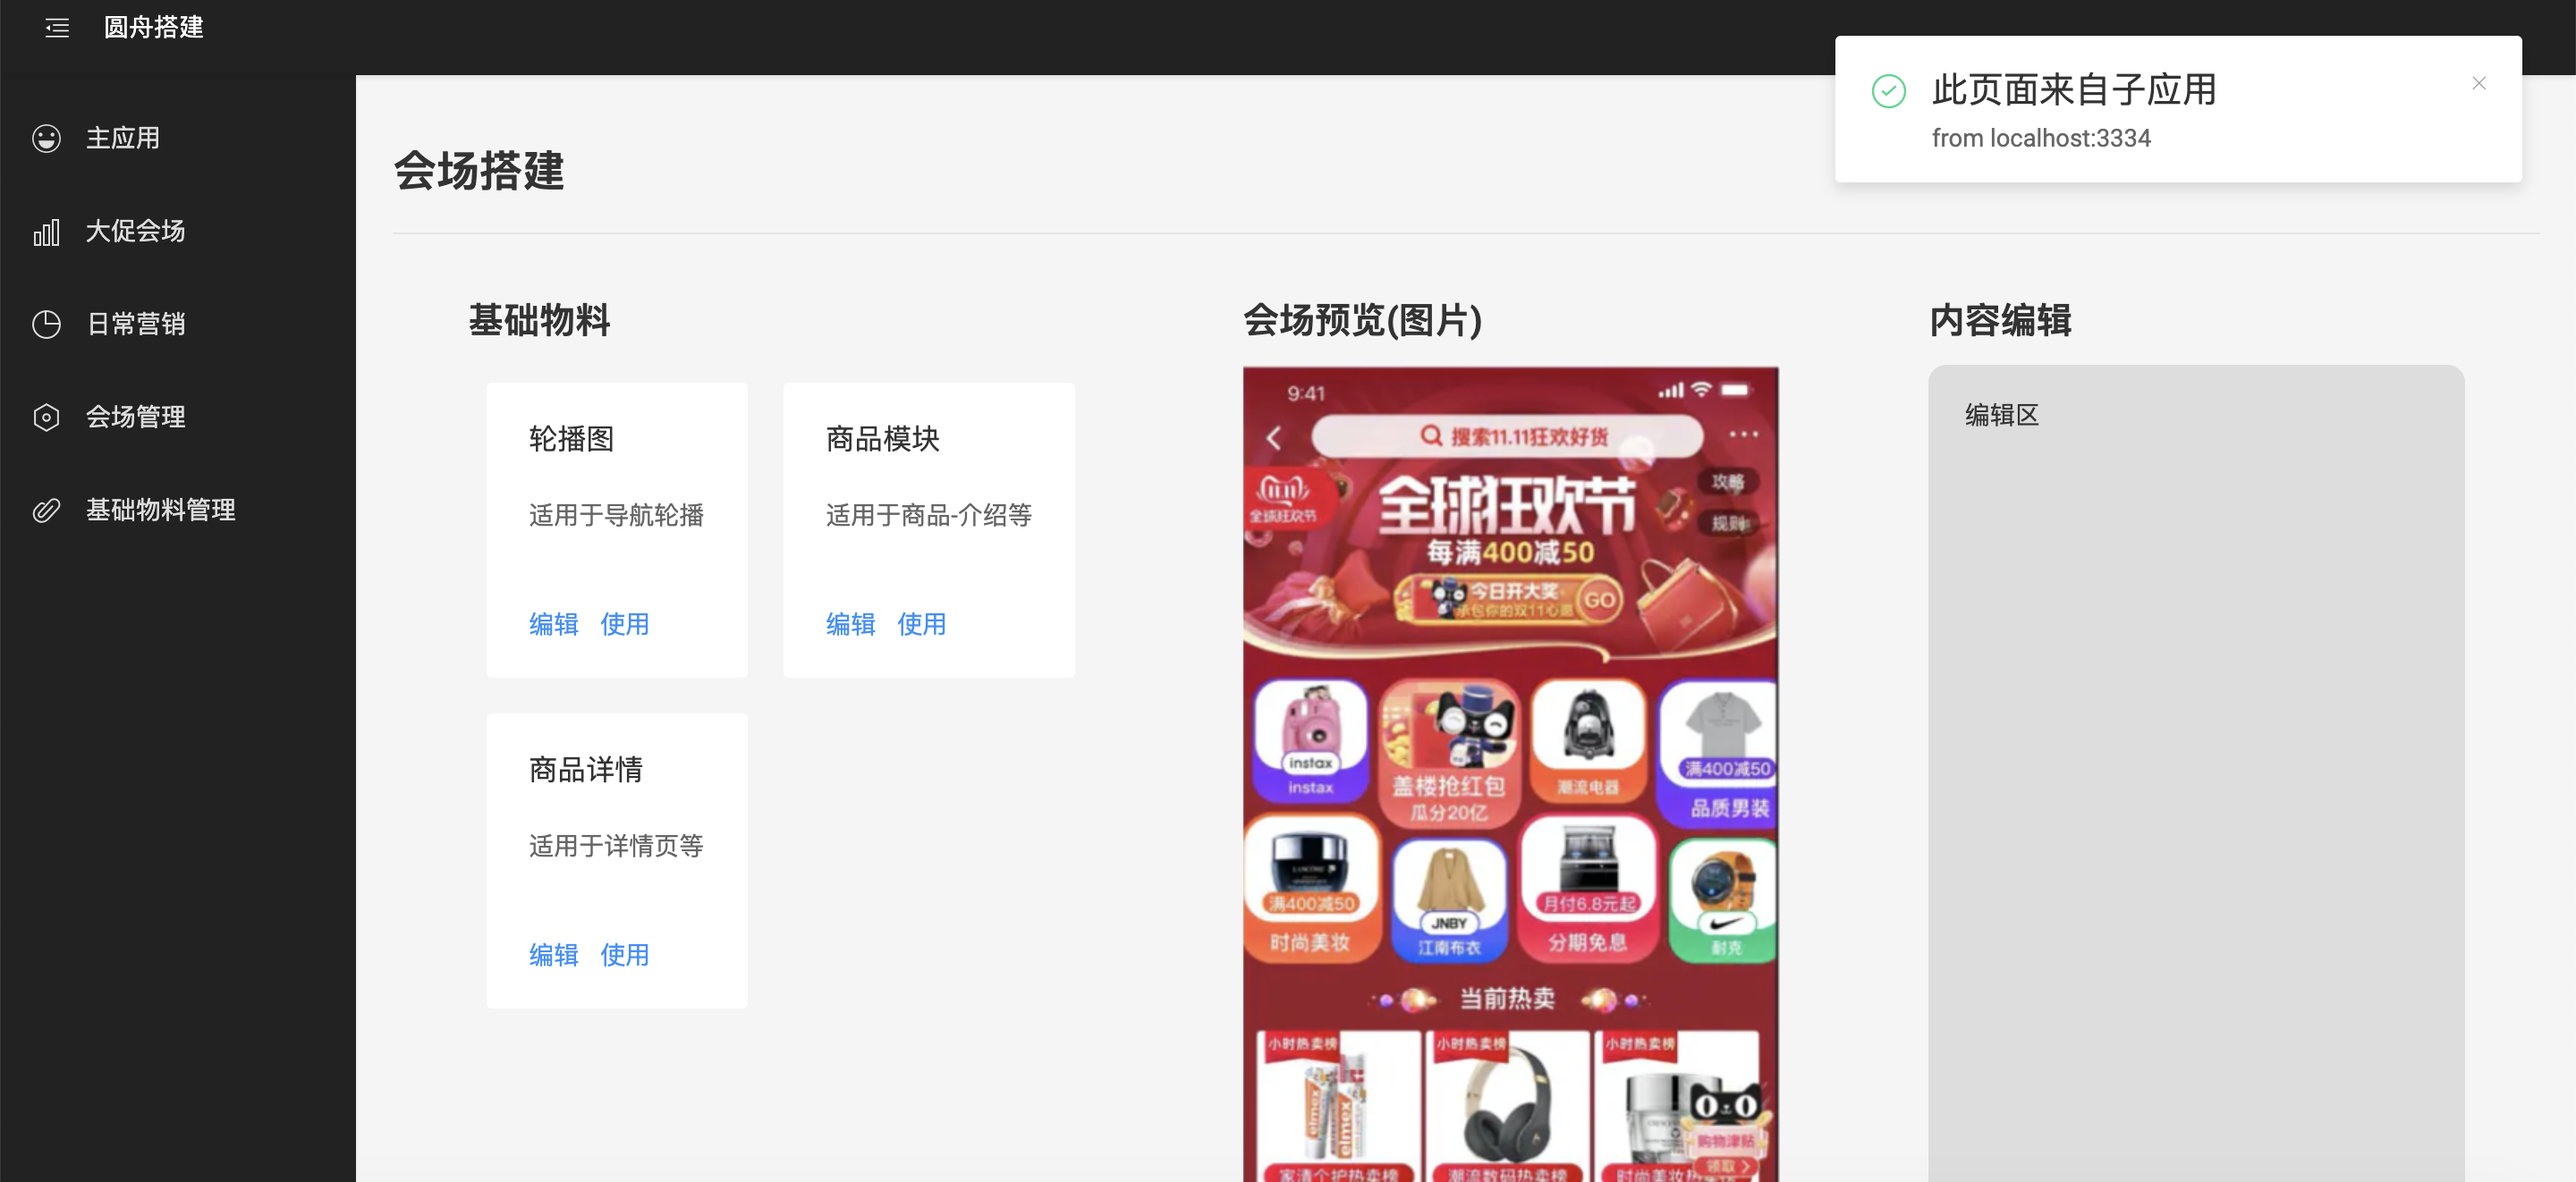
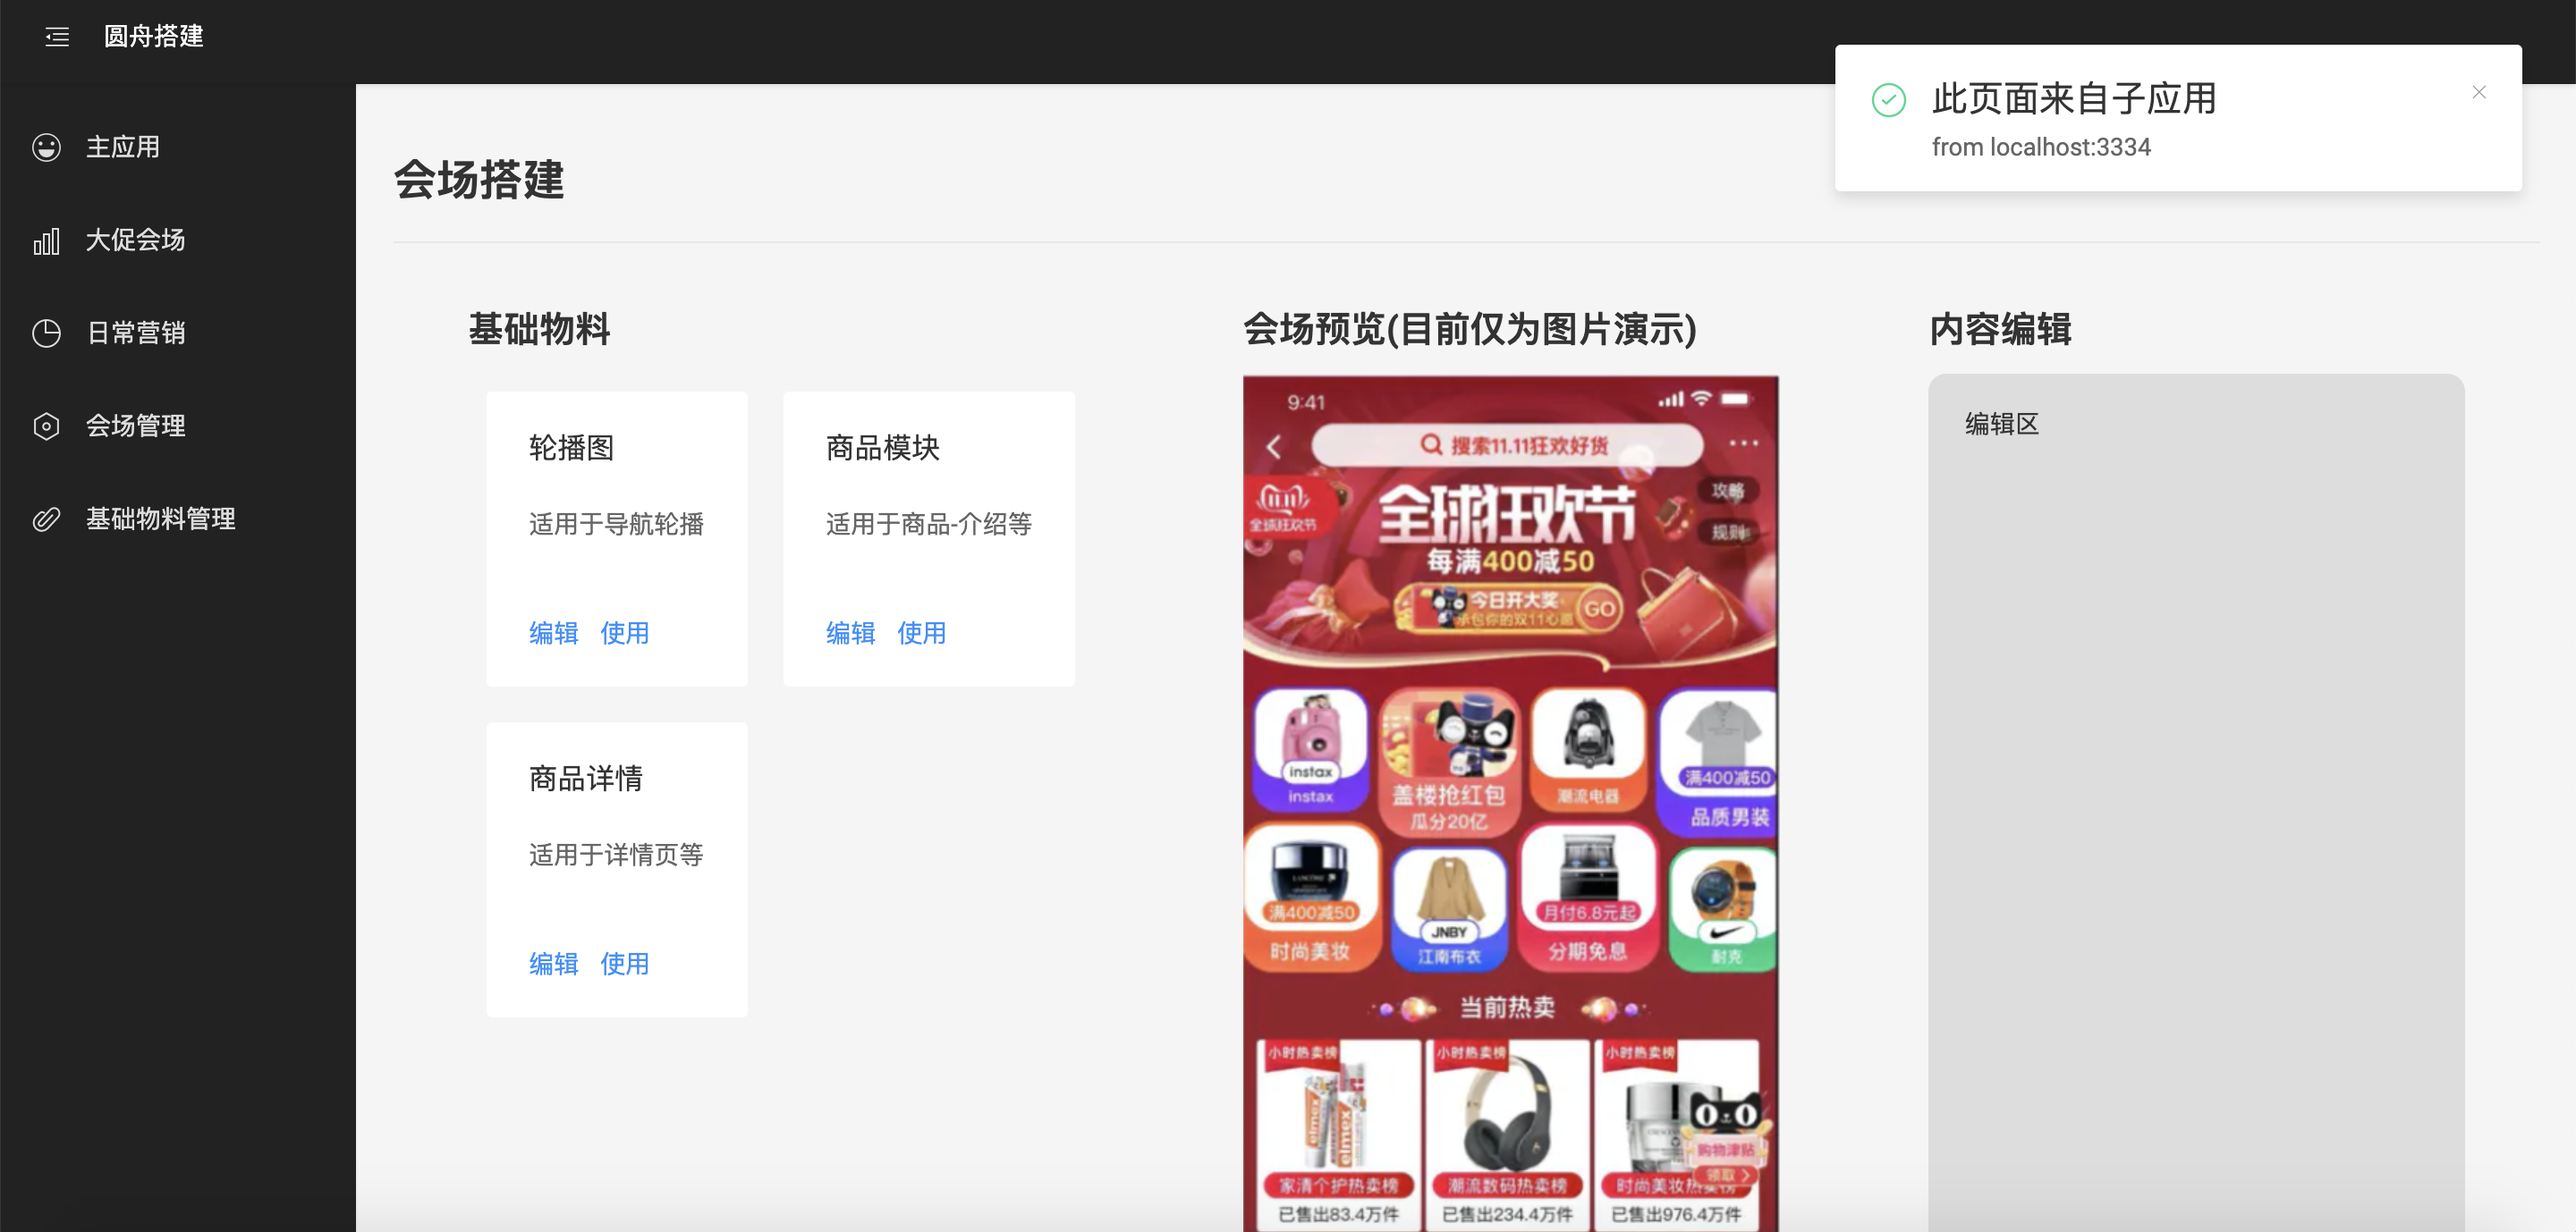
🍭 fix: change readme

diff --git a/client-child/src/pages/EditPage/index.tsx b/client-child/src/pages/EditPage/index.tsx
@@ -26,7 +26,7 @@ const EditPage = () => {
           </div>
         </div>
         <div className={style.preview}>
-          <H2>会场预览(图片)</H2>
+          <H2>会场预览(目前仅为图片演示)</H2>
           <div>
             <img src={page} alt="" className={style.img} />
           </div>
